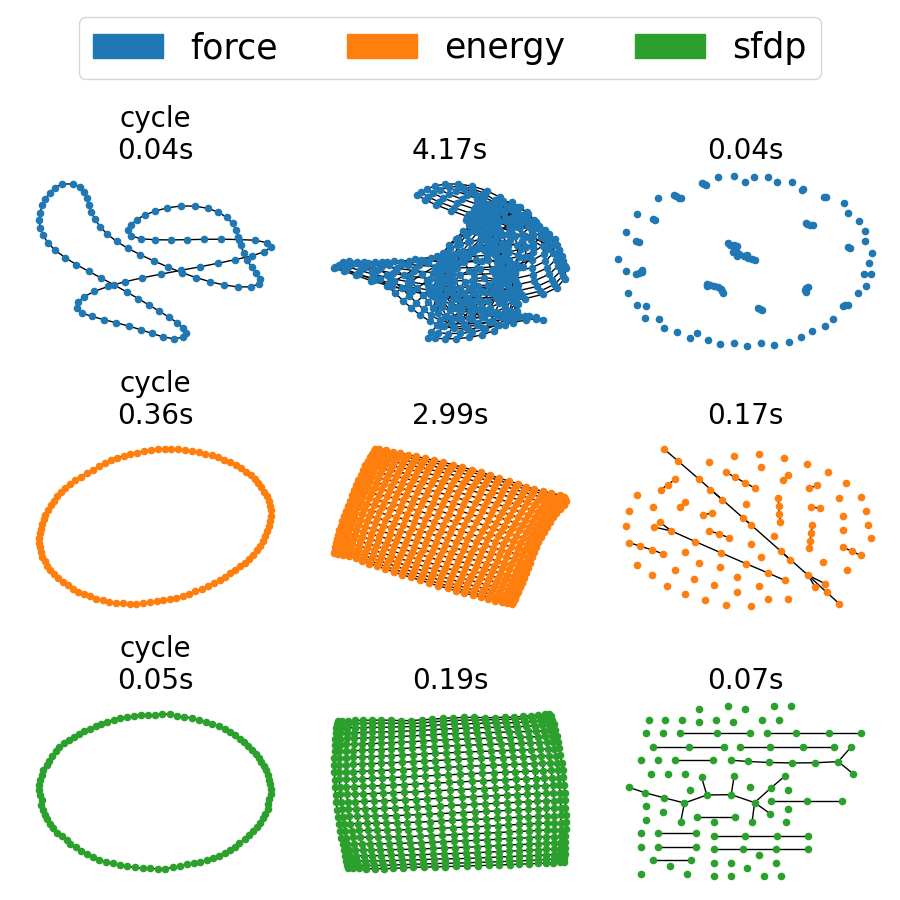
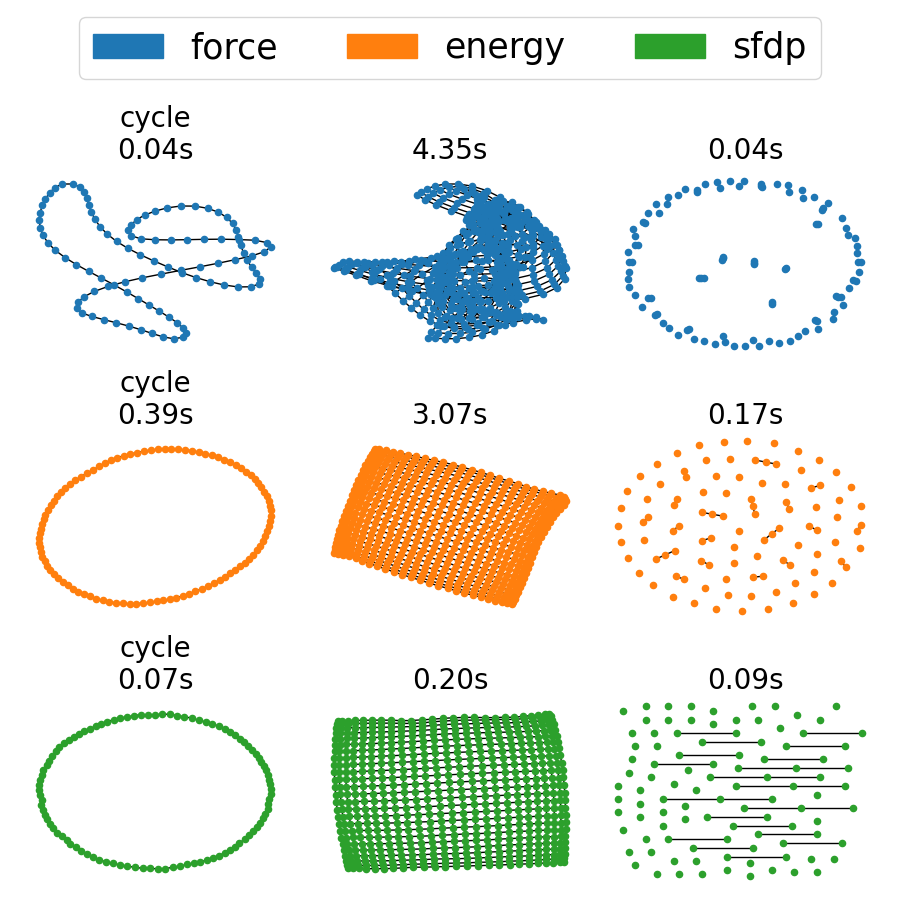
update app

diff --git a/app/new_gallery.md b/app/new_gallery.md
@@ -4,4 +4,21 @@ Dear NetworkX maintainers,
 
 I am Hiroki Hamaguchi, a contributor to NetworkX and the author of [this previous pull request](https://github.com/networkx/networkx/pull/7889).
 
-As mentioned in the previous PR, we want to add a new gallery for the `spring_layout` function to illustrate the
+As mentioned in that PR, we would like to add a new gallery example illustrating the differences among algorithms for the spring layout. Please refer to the commit for further details.
+
+In particular, this gallery includes a description of the `sfdp` algorithm from GraphViz. As you know, this algorithm requires the additional installation of GraphViz. However, it often produces the fastest results among the available layout algorithms.
+
+We hope that this gallery will serve as a useful reference for users when choosing an appropriate layout algorithm.
+
+Below are screenshots and the image generated by `make html`:
+
+![new_gallery1](https://github.com/user-attachments/assets/9e5edc7d-bccc-4a57-bbdc-d1a4872ae85d)
+
+![new_gallery2](https://github.com/user-attachments/assets/a227f4ee-58c8-4cba-b07b-5135e7898b6e)
+
+![new_gallery3](https://github.com/user-attachments/assets/bdfae9b6-d292-42f8-90c9-c2d0d09786d3)
+
+We would like to ask for your review of this PR.
+If you have any questions or concerns, please ask us.
+
+Thank you very much for your time and consideration.
